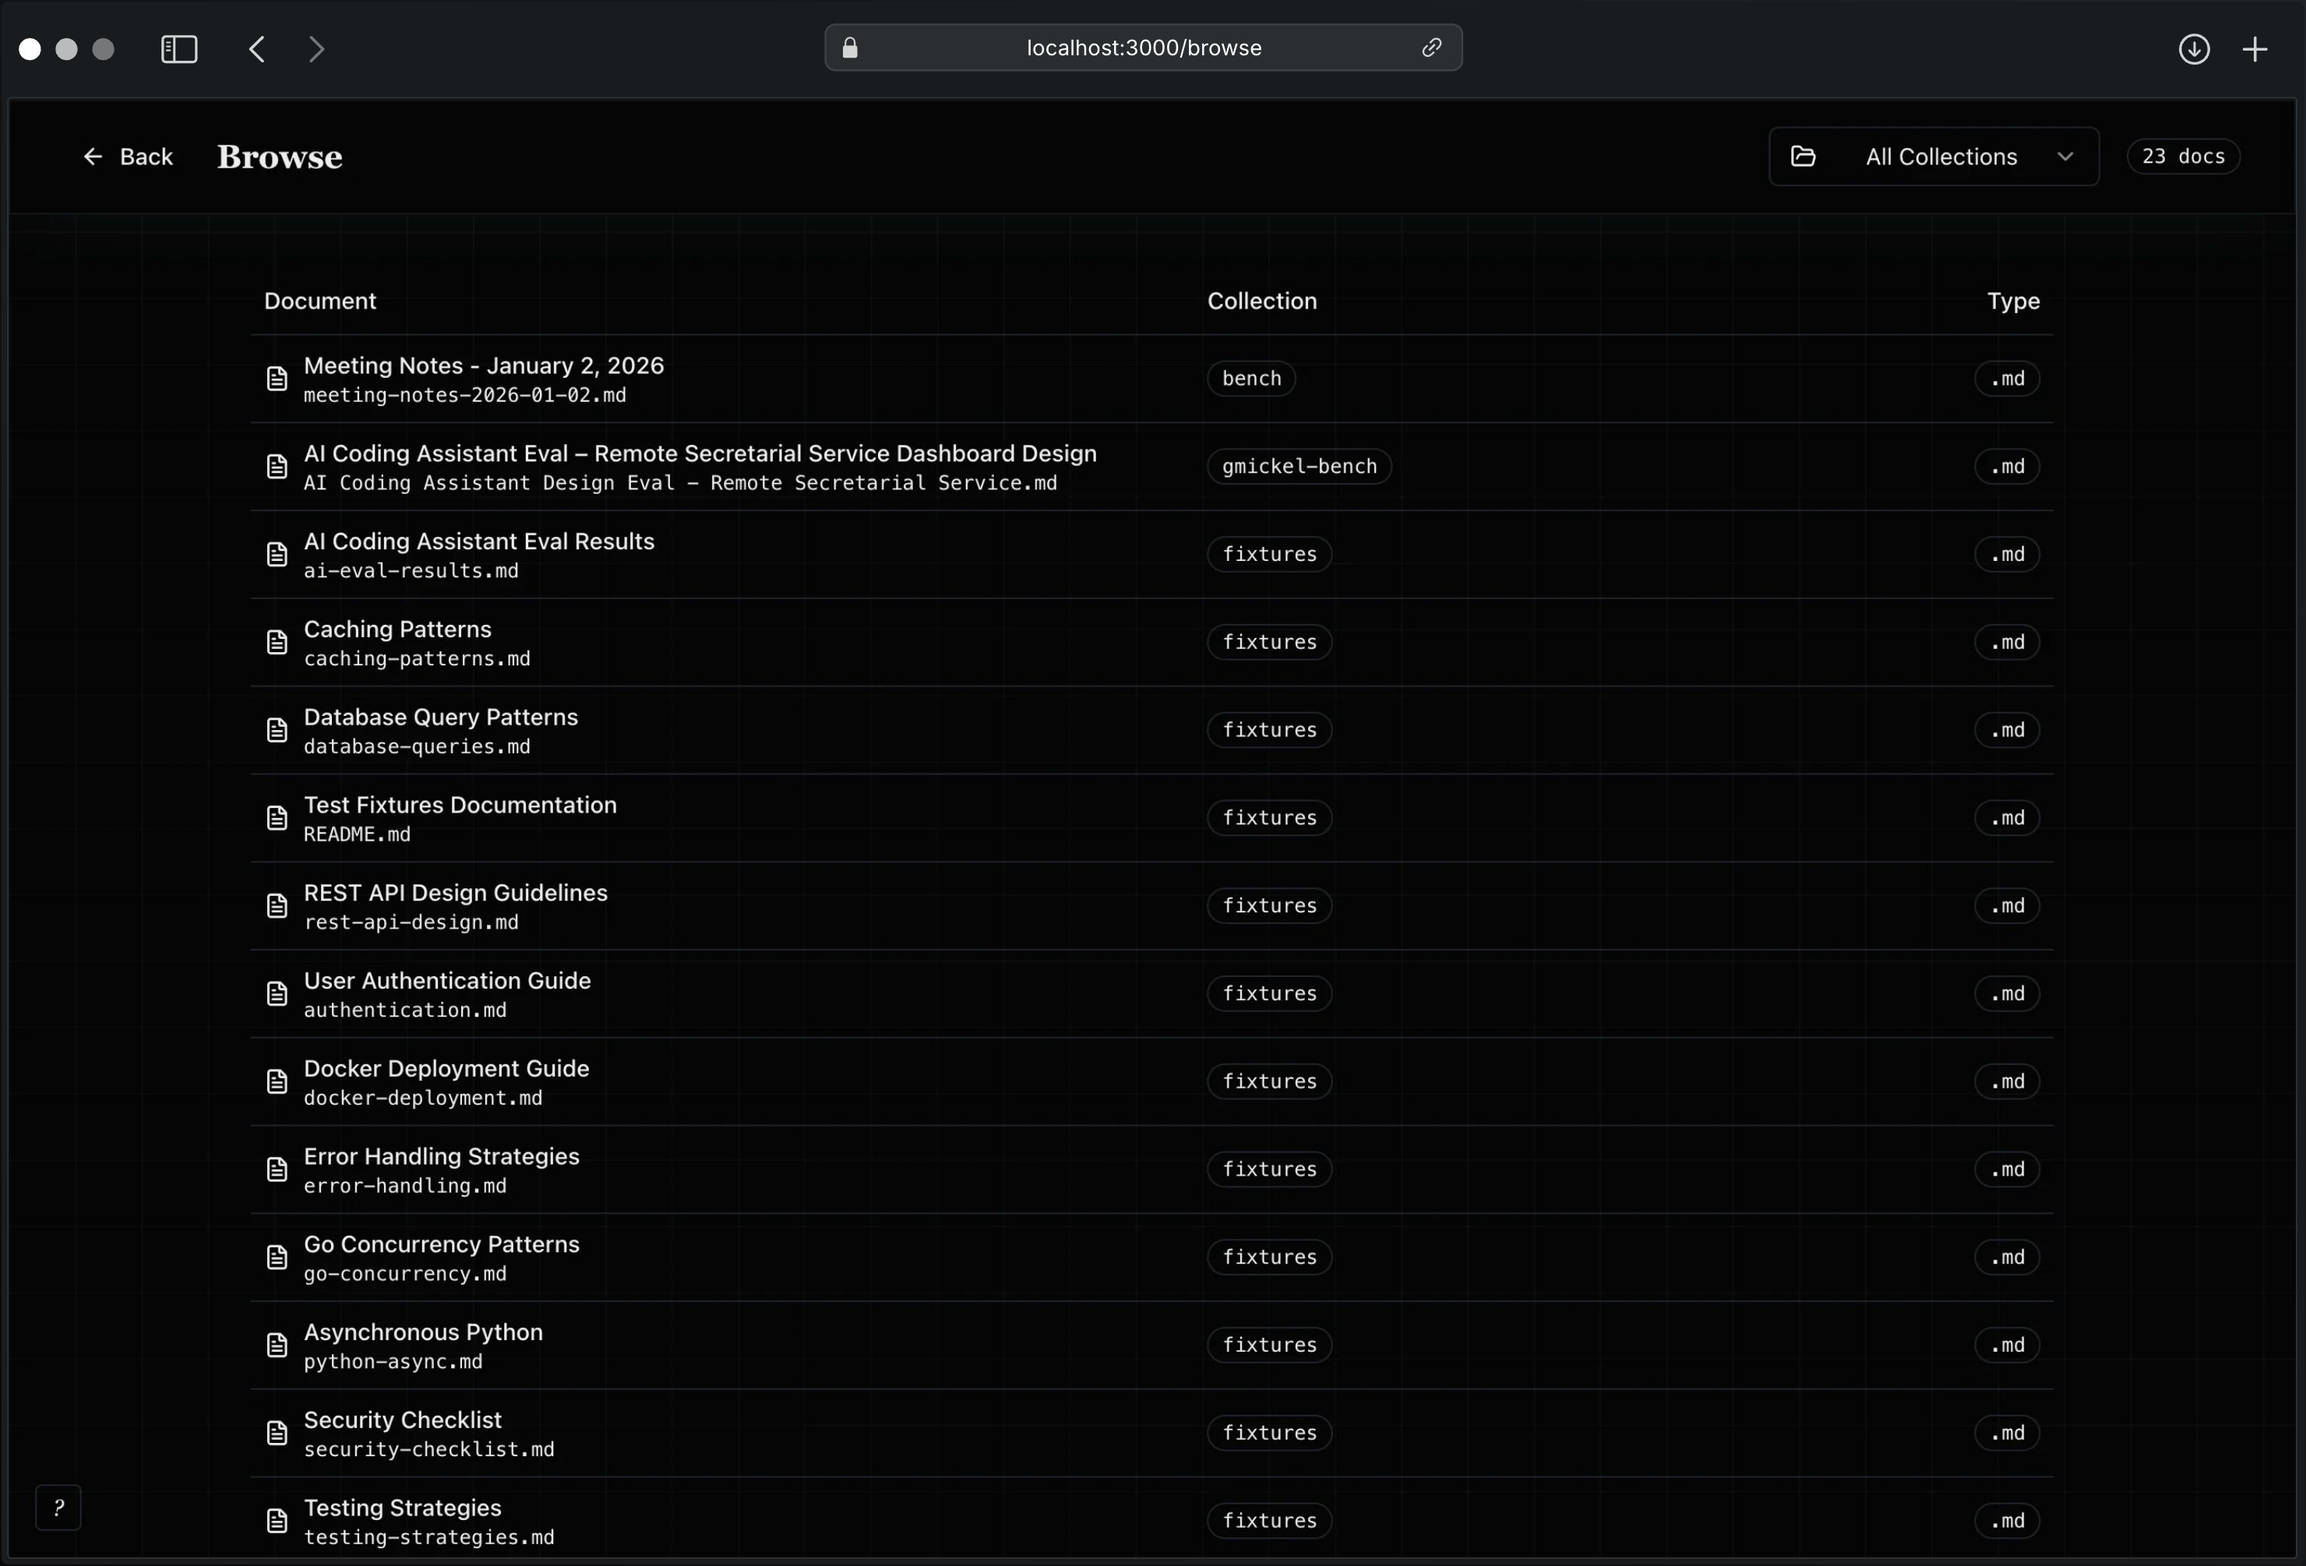
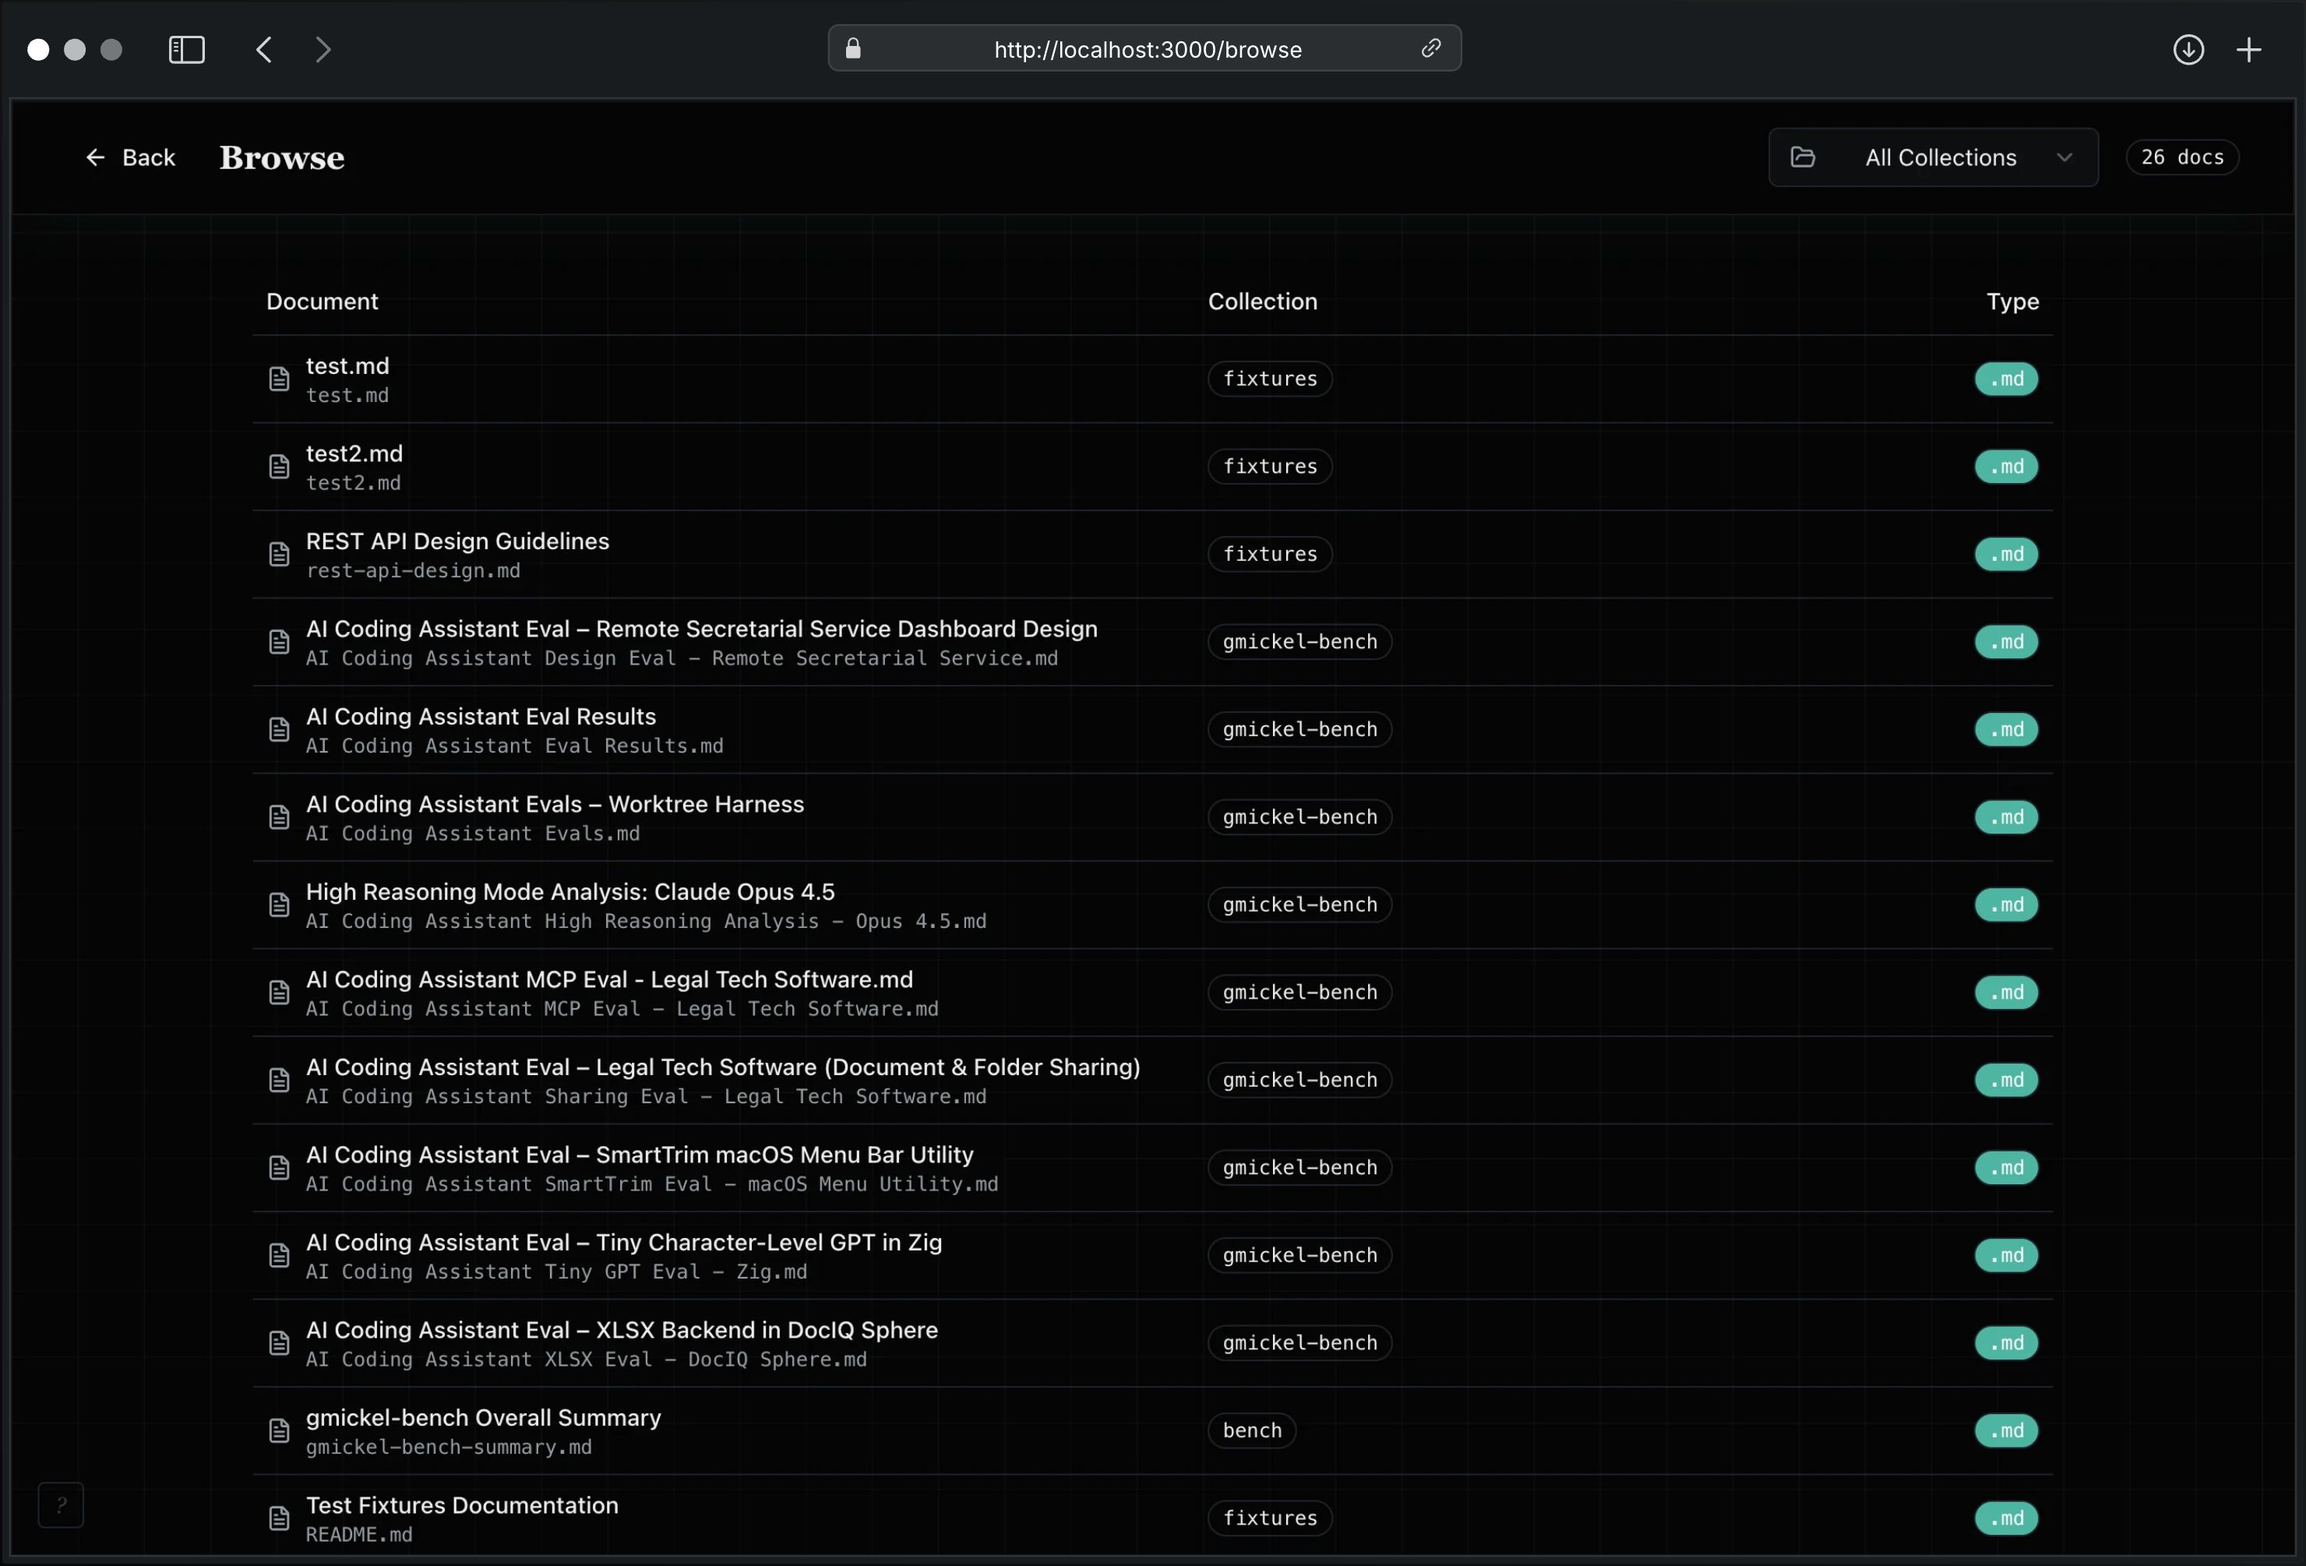
fix: markdown title fallback to filename, update screenshots
- Files without # heading now show clean filename instead of URL-encoded path
- Updated web UI screenshots

diff --git a/src/converters/native/markdown.ts b/src/converters/native/markdown.ts
@@ -5,6 +5,7 @@
 
 import type { Converter, ConvertInput, ConvertResult } from "../types";
 
+import { basenameWithoutExt } from "../path";
 import { NATIVE_VERSIONS } from "../versions";
 
 const CONVERTER_ID = "native/markdown" as const;
@@ -96,8 +97,9 @@ export const markdownConverter: Converter = {
       text = text.slice(1);
     }
 
-    // Extract title from first heading
-    const title = extractFirstHeading(text);
+    // Extract title from first heading, fall back to filename
+    const title =
+      extractFirstHeading(text) || basenameWithoutExt(input.relativePath);
 
     // NOTE: Do NOT canonicalize here - pipeline.ts handles all normalization
     return Promise.resolve({

diff --git a/test/converters/native.test.ts b/test/converters/native.test.ts
@@ -65,17 +65,18 @@ describe("markdownConverter", () => {
     }
   });
 
-  test("returns undefined title when no heading", async () => {
+  test("falls back to filename when no heading", async () => {
     const content = "No headings here.";
     const input = makeInput({
       bytes: new TextEncoder().encode(content),
+      relativePath: "my-document.md",
     });
 
     const result = await markdownConverter.convert(input);
 
     expect(result.ok).toBe(true);
     if (result.ok) {
-      expect(result.value.title).toBeUndefined();
+      expect(result.value.title).toBe("my-document");
     }
   });
 });

diff --git a/CHANGELOG.md b/CHANGELOG.md
@@ -5,6 +5,12 @@ All notable changes to GNO will be documented in this file.
 The format is based on [Keep a Changelog](https://keepachangelog.com/en/1.1.0/),
 and this project adheres to [Semantic Versioning](https://semver.org/spec/v2.0.0.html).
 
+## [0.10.3] - 2026-01-04
+
+### Fixed
+
+- **Markdown title extraction** - Files without `# heading` now fall back to filename instead of showing URL-encoded path in UI
+
 ## [0.10.1] - 2026-01-04
 
 ### Fixed
